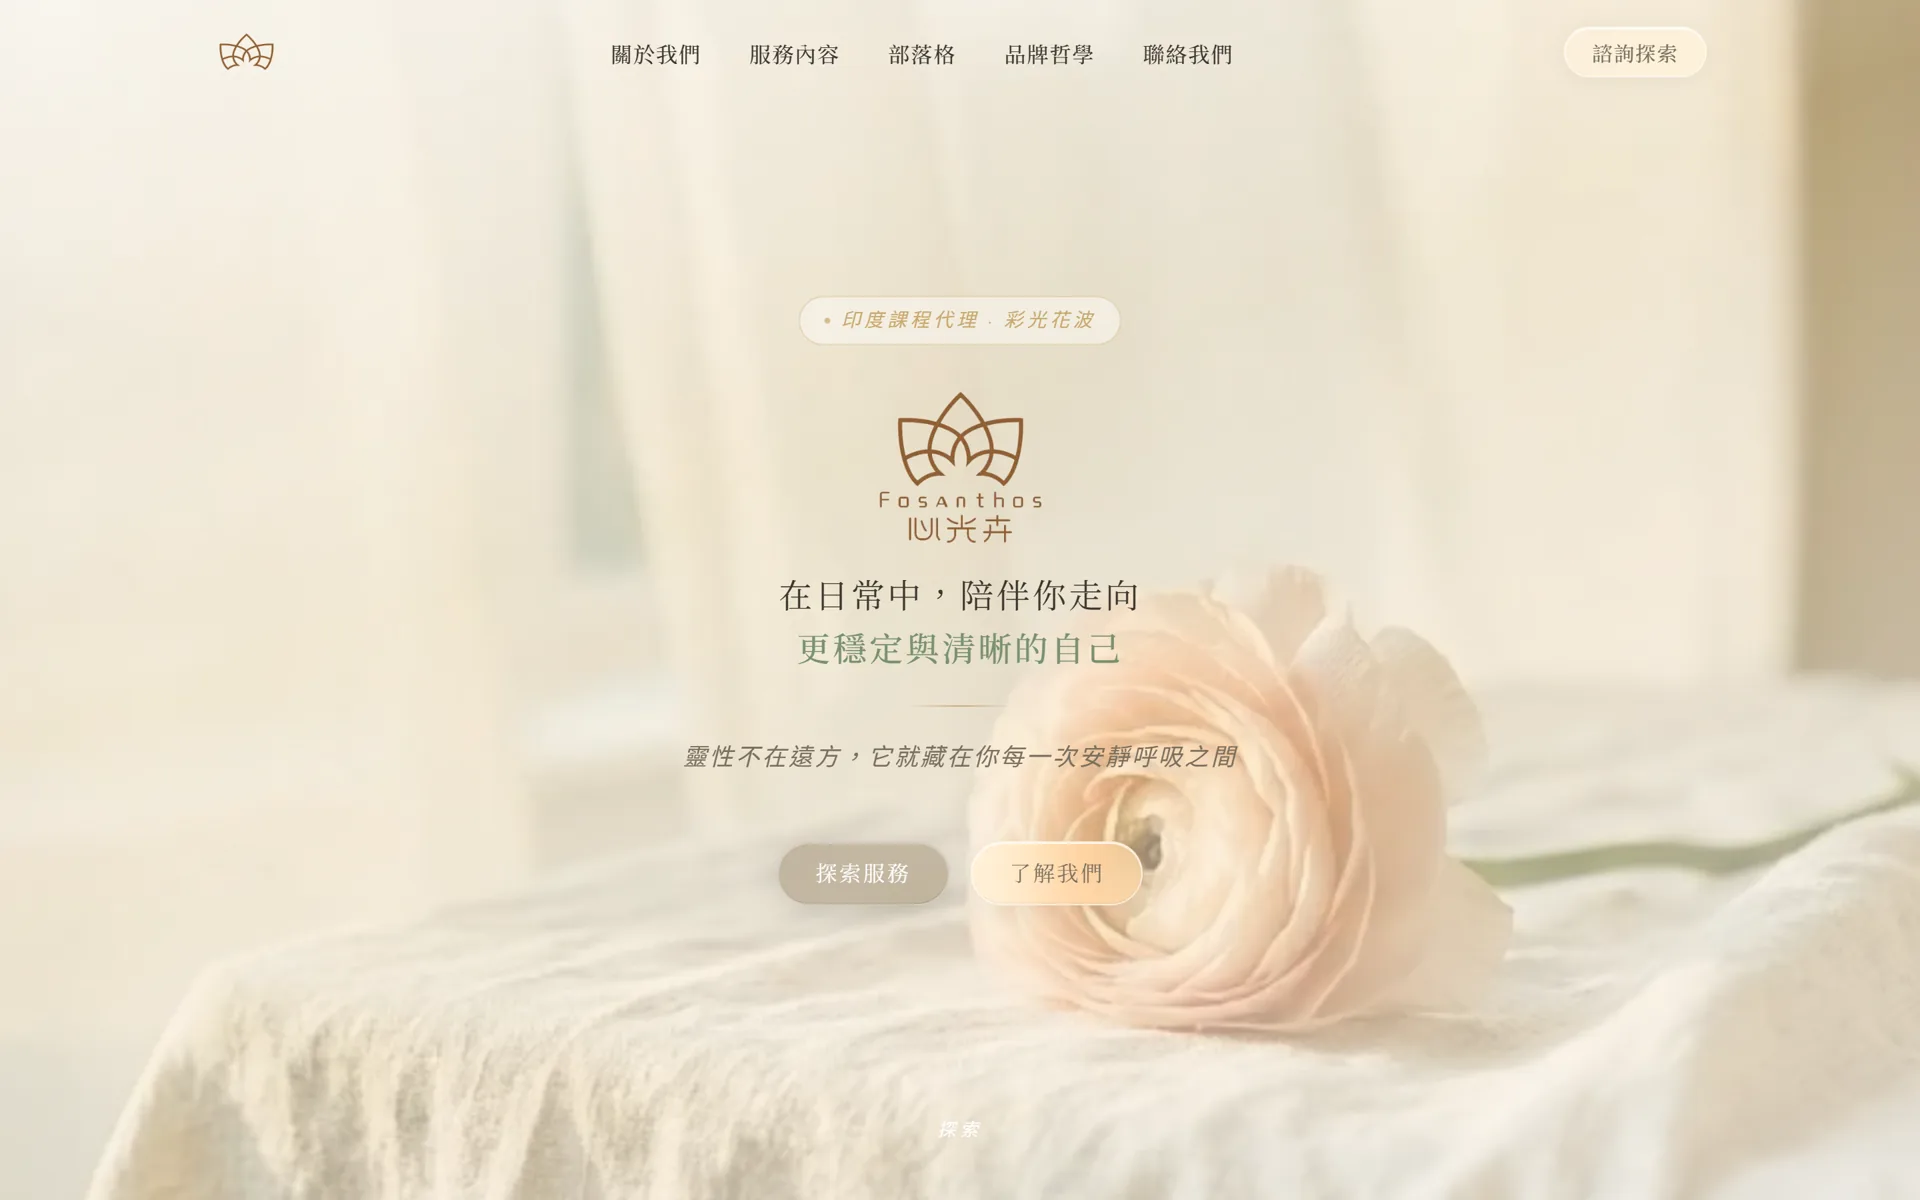
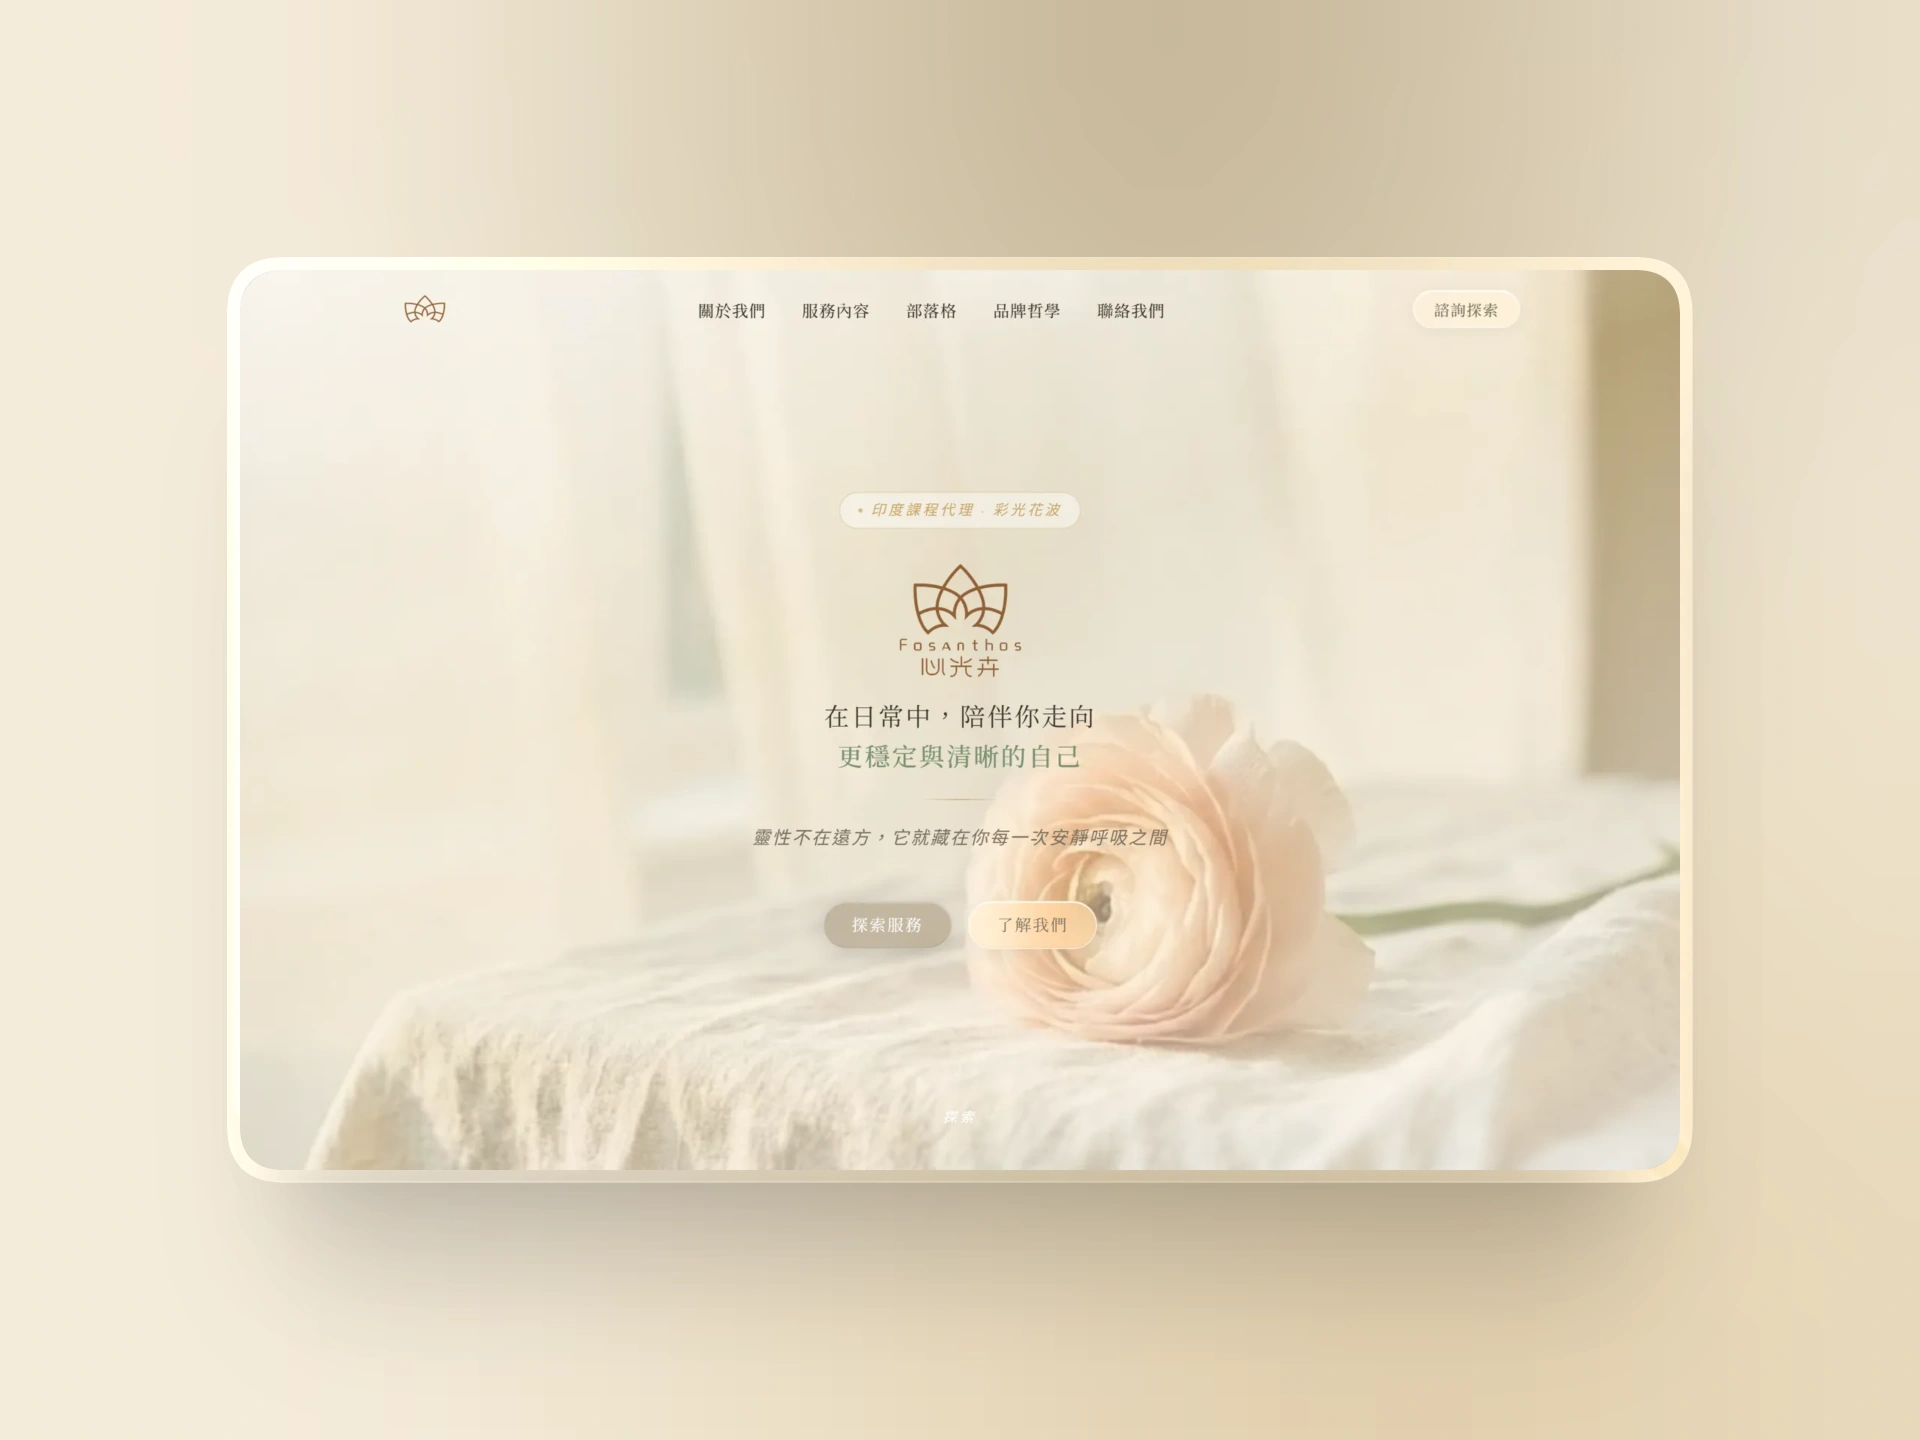
feat(work): 更新心光卉截圖，補上手機版
四張桌機截圖換新，並新增一張三支手機的畫面 —— 網站作品少了手機版，
等於漏掉訪客實際最常看到的樣子。

壓縮改用 WebP q95（先前是 q82）。這批截圖是要放進詳情頁被點開放大的，
壓縮痕跡會在中文細筆畫上現形；q95 對原圖的 SSIM 為 0.9945，裁切比對
下與原圖沒有可見差異，五張合計 572KB（PNG 原檔 3.9MB）。
解析度維持原生 1920x1440，不縮放。

w / h 一併更正為 1920x1440。這兩個值是瀏覽器在圖片下載前預留版面的依據，
沿用舊尺寸會讓每張圖載入時把下方內容往下推。

diff --git a/constants/index.js b/constants/index.js
@@ -26,6 +26,7 @@ import fosanthos1 from "../src/assets/web/web-home-hero-desktop.webp";
 import fosanthos2 from "../src/assets/web/web-home-hero-section.webp";
 import fosanthos3 from "../src/assets/web/web-blog-hero-desktop.webp";
 import fosanthos4 from "../src/assets/web/web-home-hero-form.webp";
+import fosanthos5 from "../src/assets/web/mobile.webp";
 
 /**
  * PRODUCT_DATA — 全部作品的元資料陣列
@@ -54,10 +55,11 @@ export const PRODUCT_DATA = [
     link: { label: "fosanthos.com", href: "https://fosanthos.com/" },
     homeImages: [{ id: "fosanthos", src: fosanthos, w: 3240, h: 1080 }],
     images: [
-      { id: "fosanthos1", src: fosanthos1, w: 1920, h: 1200 },
-      { id: "fosanthos2", src: fosanthos2, w: 1880, h: 916 },
-      { id: "fosanthos3", src: fosanthos3, w: 1920, h: 1200 },
-      { id: "fosanthos4", src: fosanthos4, w: 1878, h: 918 },
+      { id: "fosanthos1", src: fosanthos1, w: 1920, h: 1440 },
+      { id: "fosanthos2", src: fosanthos2, w: 1920, h: 1440 },
+      { id: "fosanthos3", src: fosanthos3, w: 1920, h: 1440 },
+      { id: "fosanthos4", src: fosanthos4, w: 1920, h: 1440 },
+      { id: "fosanthos5", src: fosanthos5, w: 1920, h: 1440 },
     ],
   },
   {
